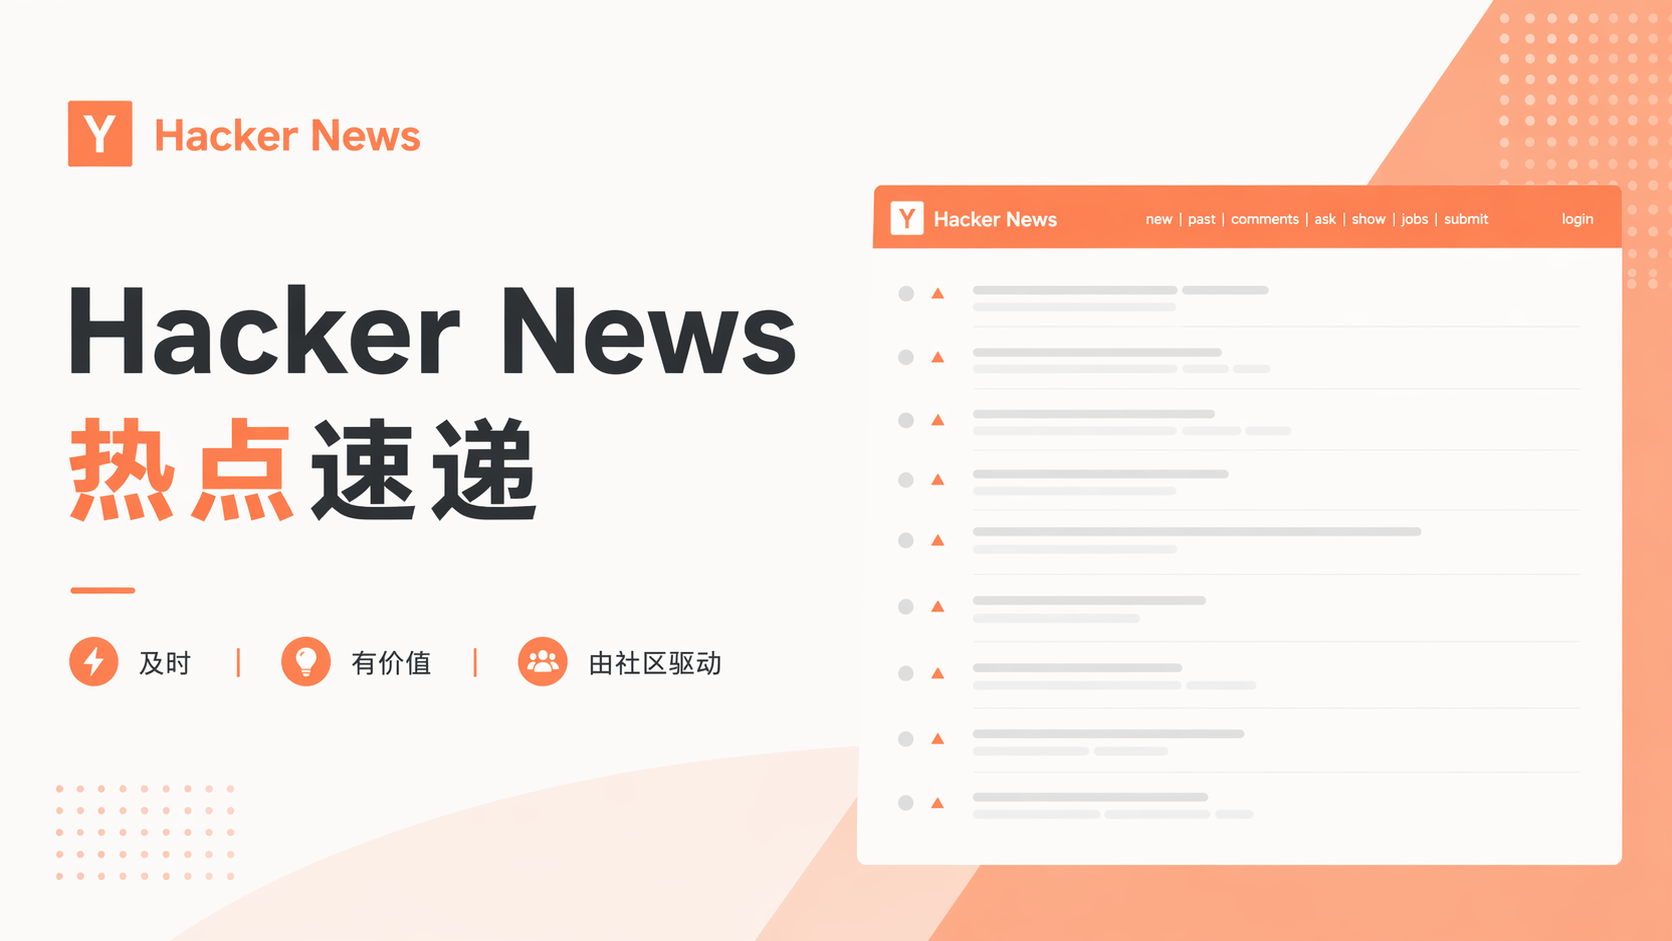
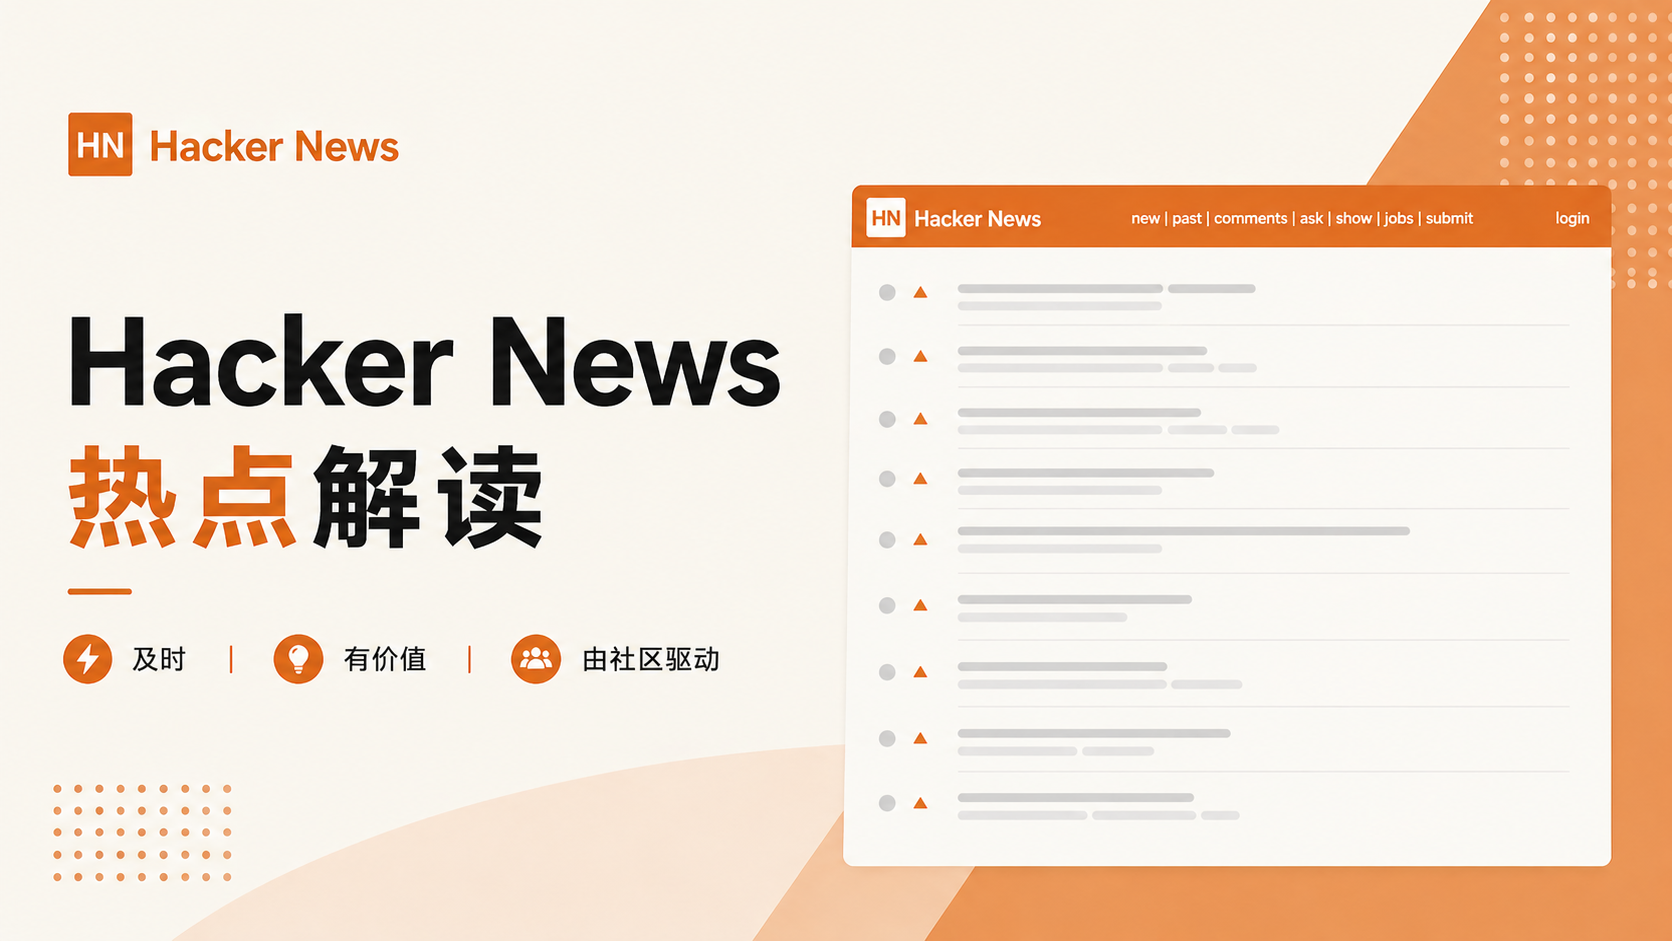
docs: rebrand 新闻速递 → 热点解读 (#51)
* docs: rename '新闻速递' to '热点解读' to match updated cover images

The HackerNews and Reddit cover images (1080×1440 and 1920×1080) were
updated from '热点速递' to '热点解读'; sync the README/SKILL/eval-prompt
copy to use the same brand wording. GitHub/ProductHunt covers are not
updated in this PR. Doc + asset change, no behavior impact.

* TransitionScene: tighten main/subtitle to 80/60

Drops main from 96 → 80 and bumps subtitle from 48 → 60 (portrait
and landscape) so both land on the existing H1/H2 typography tiers
used elsewhere in the templates. The new 4:3 ratio reads tighter
than the previous 2:1 and avoids the cross-tier jump from
Display M down to H3.

---------

diff --git a/remotion-templates/landscape/TransitionScene.tsx b/remotion-templates/landscape/TransitionScene.tsx
@@ -66,7 +66,7 @@ export const TransitionScene: React.FC<TransitionSceneProps> = ({
           <div
             style={{
               fontFamily,
-              fontSize: 96,
+              fontSize: 80,
               fontWeight: 800,
               color: theme.text_on_bg,
               opacity: textOpacity,
@@ -84,7 +84,7 @@ export const TransitionScene: React.FC<TransitionSceneProps> = ({
             <div
               style={{
                 fontFamily,
-                fontSize: 48,
+                fontSize: 60,
                 fontWeight: 400,
                 color: theme.text_secondary,
                 marginTop: 24,

diff --git a/remotion-templates/portrait/TransitionScene.tsx b/remotion-templates/portrait/TransitionScene.tsx
@@ -66,7 +66,7 @@ export const TransitionScene: React.FC<TransitionSceneProps> = ({
           <div
             style={{
               fontFamily,
-              fontSize: 96,
+              fontSize: 80,
               fontWeight: 800,
               color: theme.text_on_bg,
               opacity: textOpacity,
@@ -84,7 +84,7 @@ export const TransitionScene: React.FC<TransitionSceneProps> = ({
             <div
               style={{
                 fontFamily,
-                fontSize: 48,
+                fontSize: 60,
                 fontWeight: 400,
                 color: theme.text_secondary,
                 marginTop: 24,

diff --git a/video_quality_eval_prompt.md b/video_quality_eval_prompt.md
@@ -1,13 +1,13 @@
 # 视频质量 LLM 评估 Prompt
 
-> 本 prompt 用于对 news-monitor 管线自动生成的新闻速递视频进行多维度质量评估。
+> 本 prompt 用于对 news-monitor 管线自动生成的热点解读视频进行多维度质量评估。
 > 评估模型需要同时接收：视频帧序列、旁白文本、deep_dive 源文件。
 
 ---
 
 ## 你的角色
 
-你是一位专业的视频内容质量审核员。你将收到一段由 AI 管线自动生成的科技新闻速递视频，以及生成该视频所依赖的全部源材料。你的任务是从 **9 个维度** 对视频进行严格、可量化的质量评估，并给出每个维度的分数（1-10）、具体扣分项和改进建议。
+你是一位专业的视频内容质量审核员。你将收到一段由 AI 管线自动生成的科技热点解读视频，以及生成该视频所依赖的全部源材料。你的任务是从 **9 个维度** 对视频进行严格、可量化的质量评估，并给出每个维度的分数（1-10）、具体扣分项和改进建议。
 
 维度按优先级从高到低排列（P0 > P1 > P2）。评估时应优先关注 P0 维度，P1/P2 维度的高分不能弥补 P0 维度的缺陷。
 

diff --git a/README.md b/README.md
@@ -1,6 +1,6 @@
 # news-video-maker
 
-> OpenClaw skill — 把深度调研报告自动转成带 TTS 旁白的 MP4 新闻速递视频。
+> OpenClaw skill — 把深度调研报告自动转成带 TTS 旁白的 MP4 热点解读视频。
 
 基于 GitHub、Hacker News、Reddit、Product Hunt 的深度调研内容（deep_dive 报告），自动生成横屏（1920×1080）和竖屏（1080×1440）两种格式的 MP4 视频。视频使用 [Remotion](https://www.remotion.dev/) + React 渲染，配合 CosyVoice TTS 旁白和平台专属配色，开箱即得评分 ≥9.0/10 的成片。
 
@@ -162,7 +162,7 @@ news-video-maker/
 
 ## 🔗 依赖的其他 Skill
 
-本 skill 仅负责视频制作。完整新闻速递管线还会用到：
+本 skill 仅负责视频制作。完整热点解读管线还会用到：
 
 | Skill | 仓库 | 作用 |
 |---|---|---|

diff --git a/SKILL.md b/SKILL.md
@@ -9,7 +9,7 @@ description: >
 
 # 新闻视频制作工具
 
-基于 GitHub、Hacker News、Reddit、Product Hunt 等平台的热门话题，自动生成带旁白的新闻速递视频。
+基于 GitHub、Hacker News、Reddit、Product Hunt 等平台的热门话题，自动生成带旁白的热点解读视频。
 
 支持平台：GitHub（蓝 #0969da）、Hacker News（橙 #ff6600）、Reddit（橙红 #ff4500）、Product Hunt（珊瑚红 #ff6154）。
 
